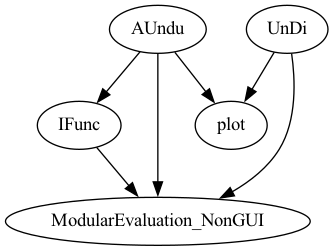
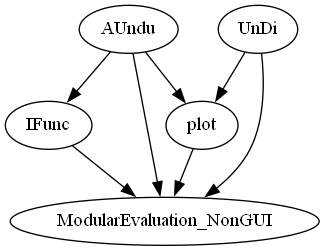
script graph change + pycache

diff --git a/nishi/script_overview.py b/nishi/script_overview.py
@@ -24,5 +24,6 @@ h.edge("IFunc","ModularEvaluation_NonGUI")
 h.edge("AUndu","ModularEvaluation_NonGUI")
 h.edge("AUndu","plot")
 h.edge("UnDi","plot")
+h.edge("plot","ModularEvaluation_NonGUI")
 
 h.render(directory="nishi",view =True)
